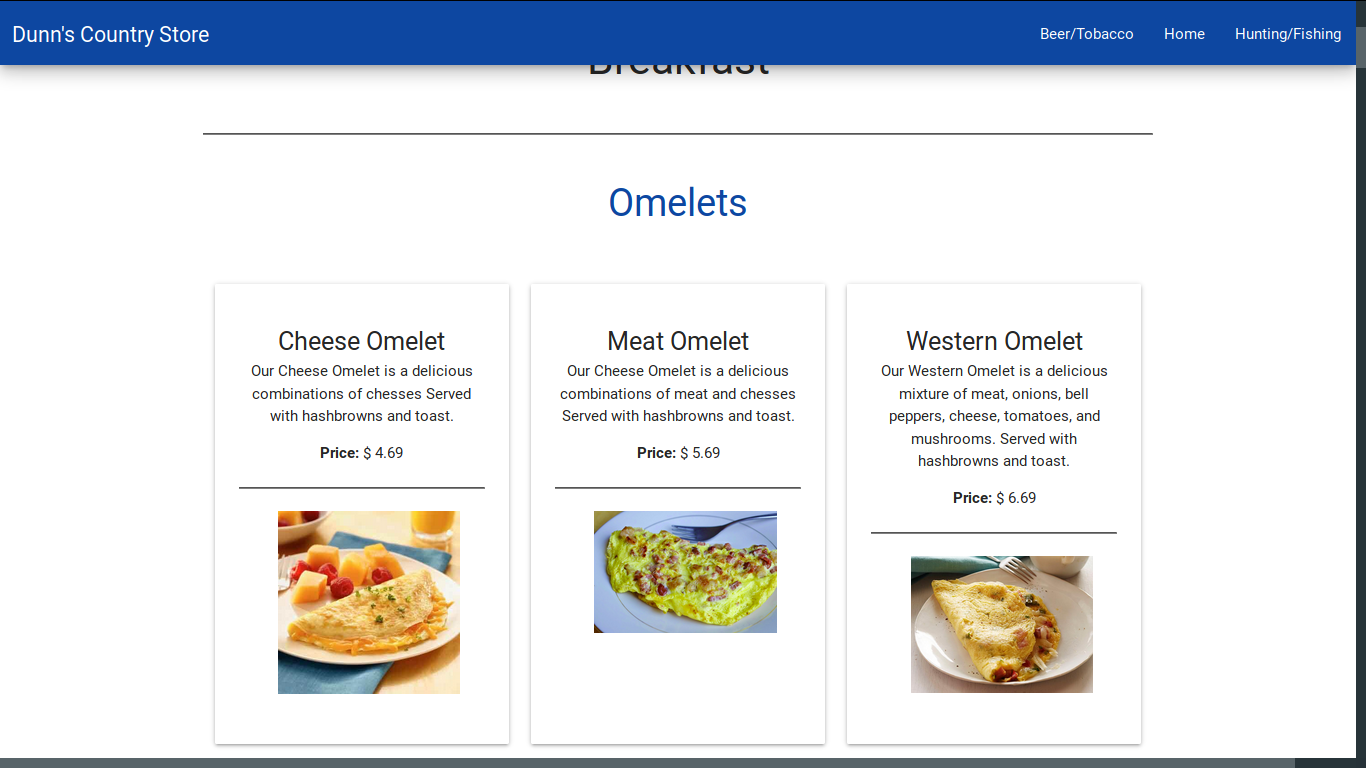
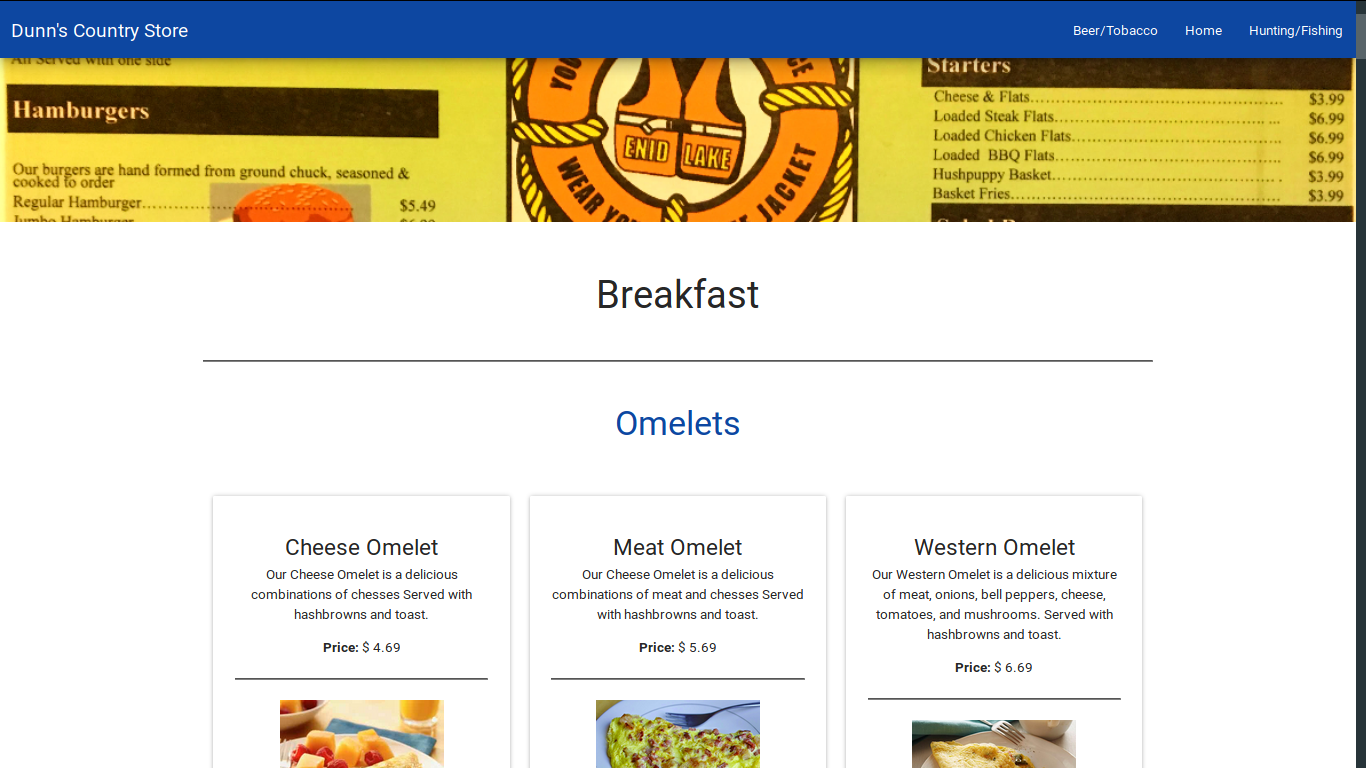
added more slides and changed the menu image.

diff --git a/danny/index.html b/danny/index.html
@@ -1,77 +1,109 @@
 <!DOCTYPE html>
 <html>
+  <head>
+    <title>Table Reservations - Daniel Peterson</title>
+    <meta charset="utf-8" />
+    <style>
+      body {
+        font-family: "Droid Serif";
+      }
 
-<head>
-  <title>Table Reservations - Daniel Peterson</title>
-  <meta charset="utf-8" />
-  <style>
-    body {
-      font-family: "Droid Serif";
-    }
+      h1,
+      h2,
+      h3 {
+        font-family: "Yanone Kaffeesatz";
+        font-weight: normal;
+      }
 
-    h1,
-    h2,
-    h3 {
-      font-family: "Yanone Kaffeesatz";
-      font-weight: normal;
-    }
+      h1 {
+        color: #0d47a1;
+      }
+      h2 {
+        color: #051936;
+      }
 
-    h1 {
-      color: #0d47a1;
-    }
+      .card {
+        max-height: 200px;
+      }
 
-    .card {
-      max-height: 200px;
-    }
+      img {
+        max-width: 700px;
+        max-height: 775px;
+        border-radius: 3px;
+        margin-top: 18px;
+      }
+      .remark-code,
+      .remark-inline-code {
+        font-family: "Ubuntu Mono";
+      }
+    </style>
+  </head>
 
-    img {
-      max-width: 700px;
-      max-height: 775px;
-      border-radius: 3px;
-      margin-top: 18px;
-    }
-
-    .remark-code,
-    .remark-inline-code {
-      font-family: "Ubuntu Mono";
-    }
-  </style>
-</head>
-
-<body>
-  <textarea id="source">
+  <body>
+    <textarea id="source">
 
 class: center, middle
 # Dunn's Country Store Table Reservations
 By: Daniel Peterson
-![](images/store-front.jpg)
 ## Technologies Used
-Django,
-Python,
-HTML,
-Materialize CSS,
-Font Awesome, and
+--
+
+
+Django
+--
+
+
+Python
+--
+
+
+HTML
+--
+
+
+Materialize CSS
+--
+
+
 Send Grid
 
----
-class: center, middle
-# Django Admin Page
-![](images/django-admin.png)
 
----
-class: center, middle
-# Registration Page
-![](images/register-form.png)
-
----
-class: center, middle
-# Log-in Page
-![](images/sign-in.png)
 
 ---
 class: center, middle
 # Home Page
 ![](images/landing.png)
+
+---
+
+class: center, middle
+# Registration Page
+![](images/register-form.png)
+---
+
+class: center, middle
+# Log-in Page
+![](images/sign-in.png)
+
+---
+
+class: center, middle
+# Profile Page
+![](images/profile-page.png)
+---
+
+class: center, middle
+# Reservered Tables Page
+![](images/reserved-tables-list.png)
+---
+class: center, middle
+# Reserved Table Page
+![](images/reserved-table.png)
+
+---
+class: center, middle
+# Successfully Sent Email Page
+![](images/successfully-sent-email.png)
 
 ---
 class: center, middle
@@ -88,20 +120,13 @@ class: center, middle
 # Hunting and Fishing Page
 ![](images/hunting-fishing.png)
 
----
-class: center, middle
-# Reserved Table Page
-![](images/reserved-table.png)
 
----
-class: center, middle
-# Successfully Sent Email Page
-![](images/successfully-sent-email.png)
+
+
     </textarea>
-  <script src="JS/remark.js"></script>
-  <script>
-    var slideshow = remark.create();
-  </script>
-</body>
-
+    <script src="JS/remark.js"></script>
+    <script>
+      var slideshow = remark.create();
+    </script>
+  </body>
 </html>
